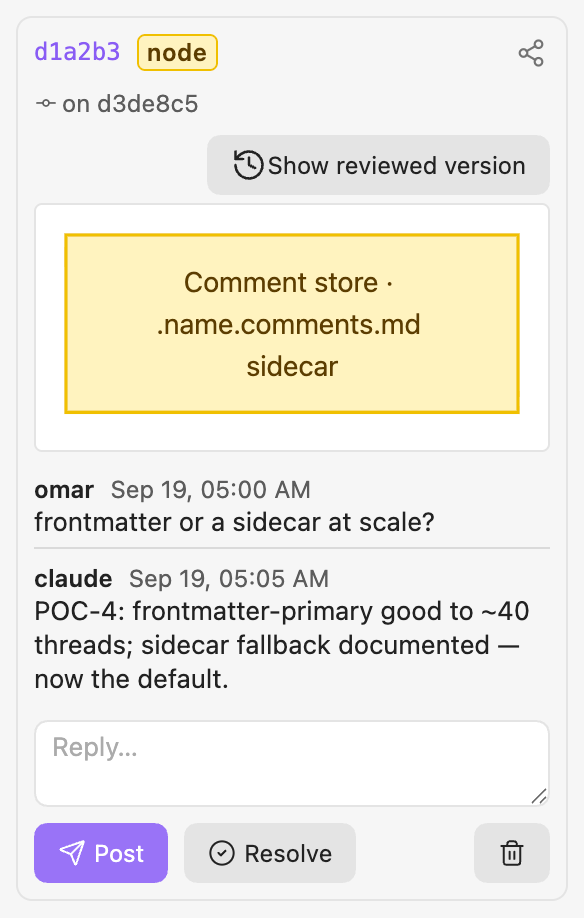
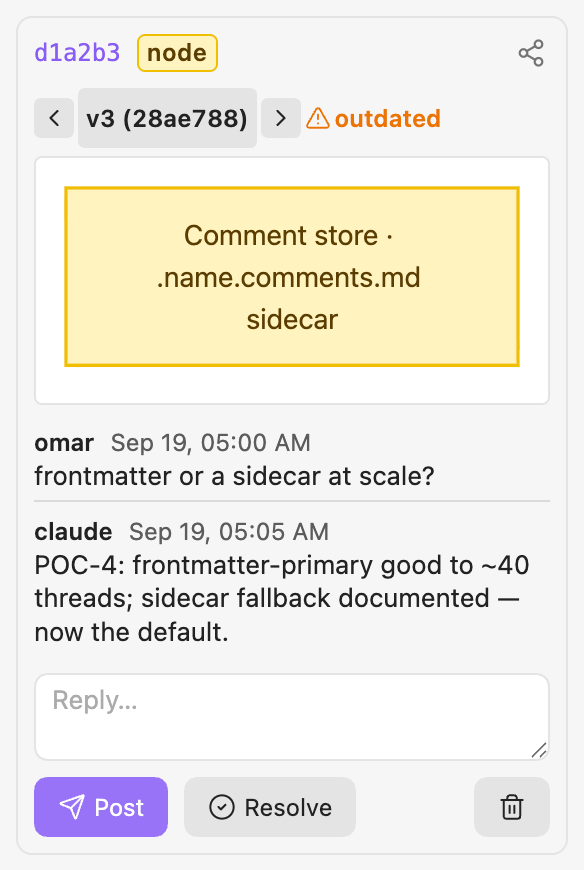
demo-media: refresh README assets for the version stepper
The marketing media still showed the removed static "on <commit>" stamp and
"Show reviewed version" accordion, and had been captured against the old
gitignored .dev-vault (stale POC-1 threads, wrong chip counts, a nonexistent
c0ffee thread). Recapture everything against the real git-tracked docs/ vault so
the README reflects the shipped inline version stepper.

- version-stamp.png → version-stepper.png: the CS node shown at v2 (frontmatter)
  above its current version (sidecar) — the drift the stepper exists to surface.
- hero.png, thread-card.png: recaptured with the `‹ vN (sha) ›` stepper on the
  rev line (no stamp, no accordion).
- filter-chips.png: recaptured; dropped the stale .dev-vault POC tooltip, now
  "1 open · 2 hidden · 1 resolved" from docs/.
- deeplink.gif: regenerated against docs/ — panel → deep-link focus on the
  qklp1y edge thread → reply landing (with the x-callback toast as proof).
- README.md: copy updated from "version stamp" to the version stepper.
- shot-list.md: item #8 rewritten to drive focusThread via eval (the deep-link
  scroll resets on refresh) and restore the tracked sidecar after the demo reply.

mermaid-badges.png was already current (docs/ Architecture diagram) — left as-is.

Claude-Session: https://claude.ai/code/session_01D6mvtA2NiFypyfJ2FpPqDf

diff --git a/.claude/skills/demo-media/shot-list.md b/.claude/skills/demo-media/shot-list.md
@@ -25,9 +25,11 @@ Reusable selectors:
 | rendered doc | `.markdown-reading-view` |
 | augmented diagram | `.mermaid:has(.review-md-node-badge)` |
 
-Live threads in `docs/designs/.design.comments.md`: `d1a2b3` (mermaidNode, committed
-`on d3de8c5`), `c0ffee` (mermaidNode, **working copy**), `qklp1y` (mermaidEdge),
-`a7b8c9` (text), `e4f5a6` (no rev). Use these ids below.
+Live threads in `docs/designs/.design.comments.md`: `d1a2b3` (mermaidNode `CS`, committed
+v3 `28ae788`, outdated), `e4f5a6` (mermaidNode `MA`, committed v3 `28ae788`, resolved),
+`a7b8c9` (mermaidNode `Store`, committed v4 `b1237be`), `qklp1y` (mermaidEdge `URL → PH`,
+committed v5 `bd9dda7`). `design.md` has six commits of real history (v1 `42cdea2` … v6
+`38238a7`), so the version stepper walks a genuine ladder. Use these ids below.
 
 ---
 
@@ -39,8 +41,8 @@ The headline image. Whole window so it reads as "a real workspace".
   `shot --out docs/media/hero.png --settle 500`
 - Crop variant for a narrower README column: `--selector '.workspace-split.mod-root' --pad 0`.
 
-### 2. comment thread card (badge · version stamp · excerpt · reply)
-Shows the anatomy of a thread: type badge, `on <commit>`, anchored excerpt, messages, Post/Resolve/delete.
+### 2. comment thread card (badge · version stepper · excerpt · reply)
+Shows the anatomy of a thread: type badge, the version stepper, anchored excerpt, messages, Post/Resolve/delete.
 - **manual:** `shot --out docs/media/thread-card.png --selector '.review-md-thread[data-thread-id="d1a2b3"]' --pad 8 --settle 300`
 
 ### 3. triage header — filter chips
@@ -68,10 +70,22 @@ touching the diagram source (requirement 9).
   `augmentRenderedMermaid` call with a hardcoded source — is no longer needed to make
   badges appear; keep it only as a way to force a one-off augment for debugging.)
 
-### 5. version stamp — committed vs working copy
-Two cards: one `on <commit>`, one **working copy**. Capture the pair.
-- **manual:** `shot --out docs/media/version-stamp.png --selector '.workspace-leaf-content[data-type="review-md-comments"]' --pad 6`
-  (the panel already shows both `d1a2b3` = committed and `c0ffee` = working copy).
+### 5. version stepper — browse the anchored element across git history
+The rev line is an inline stepper: `‹ vN (sha) ›` (left chevron = newer, disabled on the
+latest version; right = older, disabled on the oldest; label bold on the authored
+version). Clicking the label previews the anchored element **as it was in that version**
+— a rendered mini-diagram for a mermaid node/edge, else a text snippet. Best shot: step
+one card to a version whose content *differs* from now, so the version preview and the
+card's current preview visibly disagree — the drift the feature exists to surface.
+- **manual:** open the panel, then set the state in `eval` — click the card's
+  `.review-md-verstep-label` to open the preview, then click
+  `.review-md-verstep-btn[aria-label="Older version"]` to step to a differing version;
+  move the cursor off the button first (`cliclick m:600,950`) so no "Older version"
+  tooltip lands in the shot, then:
+  `shot --out docs/media/version-stepper.png --selector '.review-md-thread[data-thread-id="d1a2b3"]' --pad 8 --settle 400`
+  (`d1a2b3`'s `CS` node reads "Comment store · frontmatter" at **v2 `8dfd923`** but
+  "… .name.comments.md sidecar" now — a clean before/after in one card, and the thread
+  below is literally that frontmatter-vs-sidecar decision.)
 
 ### 6. share / reply by link — the x-callback path
 The deep-link workflow, driven by the real `obsidian://review-md-*` API.
@@ -101,14 +115,35 @@ Click-to-comment surface appearing. Frames → gif.
   ```
 
 ### 8. deep-link → focus → reply (the x-callback story, animated)
-Best single "what is this" GIF: a link opens the file, focuses the thread, a reply lands.
-- ```
-  shot  --out docs/media/frames/deeplink/f-000.png --selector '.workspace-leaf-content[data-type="review-md-comments"]'
-  open  --file designs/design.md --thread qklp1y
-  shot  --out docs/media/frames/deeplink/f-001.png --selector '.workspace-leaf-content[data-type="review-md-comments"]' --settle 500
-  reply --file designs/design.md --thread qklp1y --body "edge re-anchors on re-layout" --author omar
-  shot  --out docs/media/frames/deeplink/f-002.png --selector '.workspace-leaf-content[data-type="review-md-comments"]' --settle 500
-  gif   --frames docs/media/frames/deeplink --out docs/media/deeplink.gif --fps 3 --width 700
+Best single "what is this" GIF: a link opens the file, the panel jumps to the thread, a
+reply lands. Panel selector below is `SEL='.workspace-leaf-content[data-type="review-md-comments"]'`.
+- **Focus deterministically, don't race the deep link.** `open --thread <id>` *does* scroll
+  the sidebar to the card, but `focusThread` runs `refresh()` first (resets scroll) and the
+  smooth-scroll + 1600ms flash finish asynchronously — a `shot` right after often catches the
+  panel still at the top. Drive the plugin's own `focusThread` from `eval` instead, then shoot
+  while the flash is up (`--settle 250`):
+  ```
+  eval --code '(async()=>{const v=app.workspace.getLeavesOfType("review-md-comments")[0].view; await v.focusThread("qklp1y"); return "ok";})()'
+  ```
+- **The `reply` x-callback writes the *git-tracked* sidecar** `docs/designs/.design.comments.md`
+  (the demo vault is the real `docs/`, not a throwaway). Capture the frame, then restore it:
+  `git checkout -- docs/designs/.design.comments.md`.
+- Frames — top of panel, then focused `qklp1y` + flash, then the reply landing (its toast
+  "review-md: replied to qklp1y…" doubles as proof the x-callback fired), then a clean hold:
+  ```
+  open --file designs/design.md                       # panel at top
+  cliclick m:600,950                                   # cursor off any button (no tooltip)
+  shot --out docs/media/frames/deeplink/f-000.png --selector "$SEL" --pad 6 --settle 400
+  shot --out docs/media/frames/deeplink/f-001.png --selector "$SEL" --pad 6 --settle 200
+  eval --code '…focusThread("qklp1y")…'  ; cliclick m:600,950
+  shot --out docs/media/frames/deeplink/f-002.png --selector "$SEL" --pad 6 --settle 250
+  reply --file designs/design.md --thread qklp1y --body "great — no vault check on the reply hop then" --author omar
+  eval --code '…focusThread("qklp1y")…'  ; cliclick m:600,950
+  shot --out docs/media/frames/deeplink/f-003.png --selector "$SEL" --pad 6 --settle 300   # reply + toast
+  eval --code '…focusThread("qklp1y")…'  ; cliclick m:600,950
+  shot --out docs/media/frames/deeplink/f-004.png --selector "$SEL" --pad 6 --settle 1800  # clean hold
+  gif  --frames docs/media/frames/deeplink --out docs/media/deeplink.gif --fps 2 --width 620
+  git checkout -- docs/designs/.design.comments.md     # drop the demo reply
   ```
 
 > Commit only the final `.png`/`.gif` in `docs/media/`; `docs/media/frames/` is

diff --git a/README.md b/README.md
@@ -30,10 +30,11 @@ reviewing, and every thread is shareable and repliable through `obsidian://` lin
 - 🧭 **Mermaid comment badges** — threads on a diagram render as recoloured nodes and
   `💬`/count/`✓` badges hung off the diagram **without editing its source**; a **Bake**
   command can fold them in on demand.
-- 🕓 **Version-stamped review** — each thread records the version it was made against,
-  is flagged **outdated** only when the content *it* anchors to actually changes, and
-  can recover the exact reviewed text from git.
-- 🗂 **Triage sidebar** — cards carry a type badge and version stamp; header chips
+- 🕓 **Version-stamped review** — each thread records the version it was made against
+  and is flagged **outdated** only when the content *it* anchors to actually changes. An
+  inline **version stepper** walks the anchored element back through every git revision,
+  rendering it — diagram or text — exactly as it was in each version.
+- 🗂 **Triage sidebar** — cards carry a type badge and a version stepper; header chips
   (**open · hidden · resolved**) filter the list.
 - 📝 **Sidecar storage** — threads live in a git-tracked sibling `.<name>.comments.md`
   (YAML source of truth + a GitHub-legible body), so they diff cleanly and any CLI tool
@@ -54,7 +55,7 @@ An `obsidian://review-md-open` link opens the file focused on a thread; a
 
 ### A comment thread
 
-Type badge, version stamp (`on <commit>`), the anchored excerpt, the message history,
+Type badge, the version stepper, the anchored excerpt, the message history,
 and the reply box — one self-contained thread.
 
 <p align="center">
@@ -67,13 +68,16 @@ and the reply box — one self-contained thread.
   <img src="docs/media/mermaid-badges.png" alt="A Mermaid diagram with commented nodes recoloured and count badges" width="640">
 </p>
 
-### Version stamps & triage chips
+### Version stepper & triage chips
 
-A thread stamped `on <commit>` next to one on the **working copy**; the header chips
-count and filter open / hidden / resolved.
+Each card's rev line is an inline stepper — `‹ vN (sha) ›` walks the anchored element
+through the file's git history (left = newer, right = older), rendering it **as it was**
+in each version. Here the `CS` node read *"… frontmatter"* at **v2** but *"… sidecar"*
+now — the very drift the thread was debating. The header chips count and filter open /
+hidden / resolved.
 
 <p align="center">
-  <img src="docs/media/version-stamp.png" alt="Comment panel showing committed and working-copy version stamps" width="360">
+  <img src="docs/media/version-stepper.png" alt="Inline version stepper: a mermaid node shown as it was at v2 (frontmatter) above its current version (sidecar)" width="360">
   &nbsp;&nbsp;
   <img src="docs/media/filter-chips.png" alt="Open, hidden, and resolved filter chips" width="360">
 </p>
